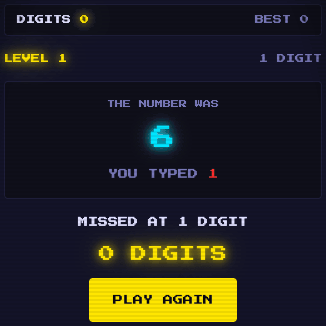
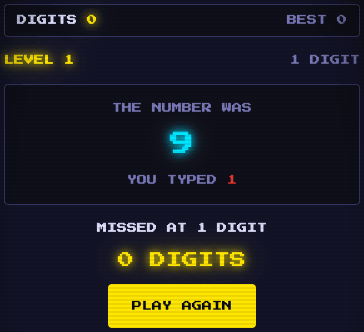
Add memory e2e coverage and refresh the rule-media stills
tests/e2e/memory.spec.js covers the pass-and-play handoff gate, the Simon pad
names and the press light, the Visual Memory slip pause, the Chimp starting
score and solo-run title, and the catalog chip. The chip test fails on the old
GamePicker.

The Simon and Number Memory how-to-play stills are recaptured. The other types'
source hashes are refreshed because src/index.css, BotBoardDemo and GameStatus
changed; their stills are not recaptured because nothing they show changed.
Chimp keeps its stills: its scene taps the first numbered tile, which is now a
slip that pauses the run, and the window closes before a scripted tap can name
tile 1. The capture script finds the solo game card by a new data-demo-board
attribute, because the .scroll-mt-20 class it looked for is gone.

diff --git a/tests/e2e/memory.spec.js b/tests/e2e/memory.spec.js
@@ -1,0 +1,85 @@
+// Memory shelf flows that only show up in a real browser: the pass-and-play
+// handoff gate, the pause after a slip in a solo run, and the Simon pad identity.
+import { test, expect } from '@playwright/test'
+import { onboard } from './helpers.js'
+
+const litLabels = page => page.locator('button[aria-label$=", lit"]').evaluateAll(els => els.map(e => e.getAttribute('aria-label')))
+
+test('pass-and-play Simon hides the next flash until the next player taps ready', async ({ page }) => {
+  await page.goto('/local/simon')
+  // Player 1 is gated too, so nobody's reveal starts on a phone that is still being passed.
+  await expect(page.getByText('PASS THE DEVICE')).toBeVisible()
+  await page.getByRole('button', { name: "I'M READY" }).click()
+
+  // The first turn only adds a pad.
+  await page.getByRole('button', { name: /^green pad, top left/ }).click()
+
+  // The turn passes: the board is replaced by the gate, so player 2's flash cannot
+  // play in player 1's hands (it used to start 150 ms after the pad).
+  await expect(page.getByText('PASS THE DEVICE')).toBeVisible()
+  await expect(page.getByText('PLAYER 2', { exact: true }).last()).toBeVisible()
+  await expect(page.getByText('WATCH CAREFULLY')).toHaveCount(0)
+
+  await page.getByRole('button', { name: "I'M READY" }).click()
+  await expect(page.getByText('WATCH CAREFULLY')).toBeVisible()
+})
+
+test('Simon pads are named by colour and corner, and light up on your own press', async ({ page }) => {
+  await page.goto('/solo/simon')
+  for (const name of ['green pad, top left', 'red pad, top right', 'yellow pad, bottom left', 'blue pad, bottom right']) {
+    await expect(page.getByRole('button', { name: new RegExp(`^${name}`) })).toBeVisible()
+  }
+  // Watch the one-pad sequence, then repeat it: the pressed pad lights.
+  await page.getByRole('button', { name: 'WATCH AGAIN (1)' }).click()
+  let first = null
+  await expect.poll(async () => { const l = await litLabels(page); if (l.length) first = l[0]; return first }, { timeout: 5000 }).not.toBeNull()
+  await expect(page.getByText(/REPEAT FROM MEMORY/)).toBeVisible()
+  const name = first.replace(', lit', '')
+  const pad = page.getByRole('button', { name: new RegExp(`^${name}`) })
+  await pad.click()
+  await expect(page.getByRole('button', { name: `${name}, lit` })).toBeVisible()
+})
+
+test('a Visual Memory slip holds the board on the mistake until TRY AGAIN', async ({ page }) => {
+  await page.goto('/solo/visualmemory')
+  const tiles = page.locator('button[aria-label^="row "]')
+  // Remount the run so the reveal starts while we watch.
+  await page.getByRole('button', { name: /CHIMP\s*TEST/ }).click()
+  await page.getByRole('button', { name: /VIS\s*MEMORY/ }).click()
+  let lit = []
+  await expect.poll(async () => {
+    lit = await tiles.evaluateAll(els => els.map((e, i) => (e.getAttribute('aria-label').endsWith(', lit') ? i : -1)).filter(i => i >= 0))
+    return lit.length
+  }, { timeout: 5000 }).toBeGreaterThan(0)
+  await expect(page.getByText(/TAP THE TILES YOU SAW/)).toBeVisible()
+  const count = await tiles.count()
+  const wrong = [...Array(count).keys()].find(i => !lit.includes(i))
+  await tiles.nth(wrong).click()
+
+  await expect(page.getByText('WRONG TILE — DASHED TILES WERE THE PATTERN')).toBeVisible()
+  const tryAgain = page.getByRole('button', { name: 'TRY AGAIN · 2 LIVES LEFT' })
+  await expect(tryAgain).toBeVisible()
+  // The same pattern is still on the board (nothing re-dealt behind the message).
+  await expect(page.locator('button[aria-label$="was in the pattern"]')).toHaveCount(lit.length)
+  await tryAgain.click()
+  await expect(page.getByText('MEMORIZE THE LIT TILES')).toBeVisible()
+})
+
+test('a Chimp solo run starts at 0 numbers and the tab says solo run', async ({ page }) => {
+  await page.goto('/solo/chimp')
+  await expect(page.getByText(/^NUMBERS\s*0$/)).toBeVisible()
+  await expect(page).toHaveTitle('Chimp test — solo run — Game Night')
+  await expect(page.getByText('BEAT YOUR BEST')).toBeVisible()
+})
+
+test('tapping a catalog chip keeps that chip lit, also on a phone', async ({ page }) => {
+  await page.setViewportSize({ width: 390, height: 844 })
+  await onboard(page, 'Chip Tester')
+  await page.goto('/games')
+  for (const chip of ['MEMORY', 'WORD', 'REFLEX', 'MEMORY']) {
+    await page.getByRole('button', { name: new RegExp(`^${chip} \\d+$`) }).click()
+    // The chip used to flip back to the section above once the smooth scroll ended.
+    await page.waitForTimeout(1500)
+    await expect(page.getByRole('button', { name: new RegExp(`^${chip} \\d+$`) })).toHaveAttribute('aria-pressed', 'true')
+  }
+})
